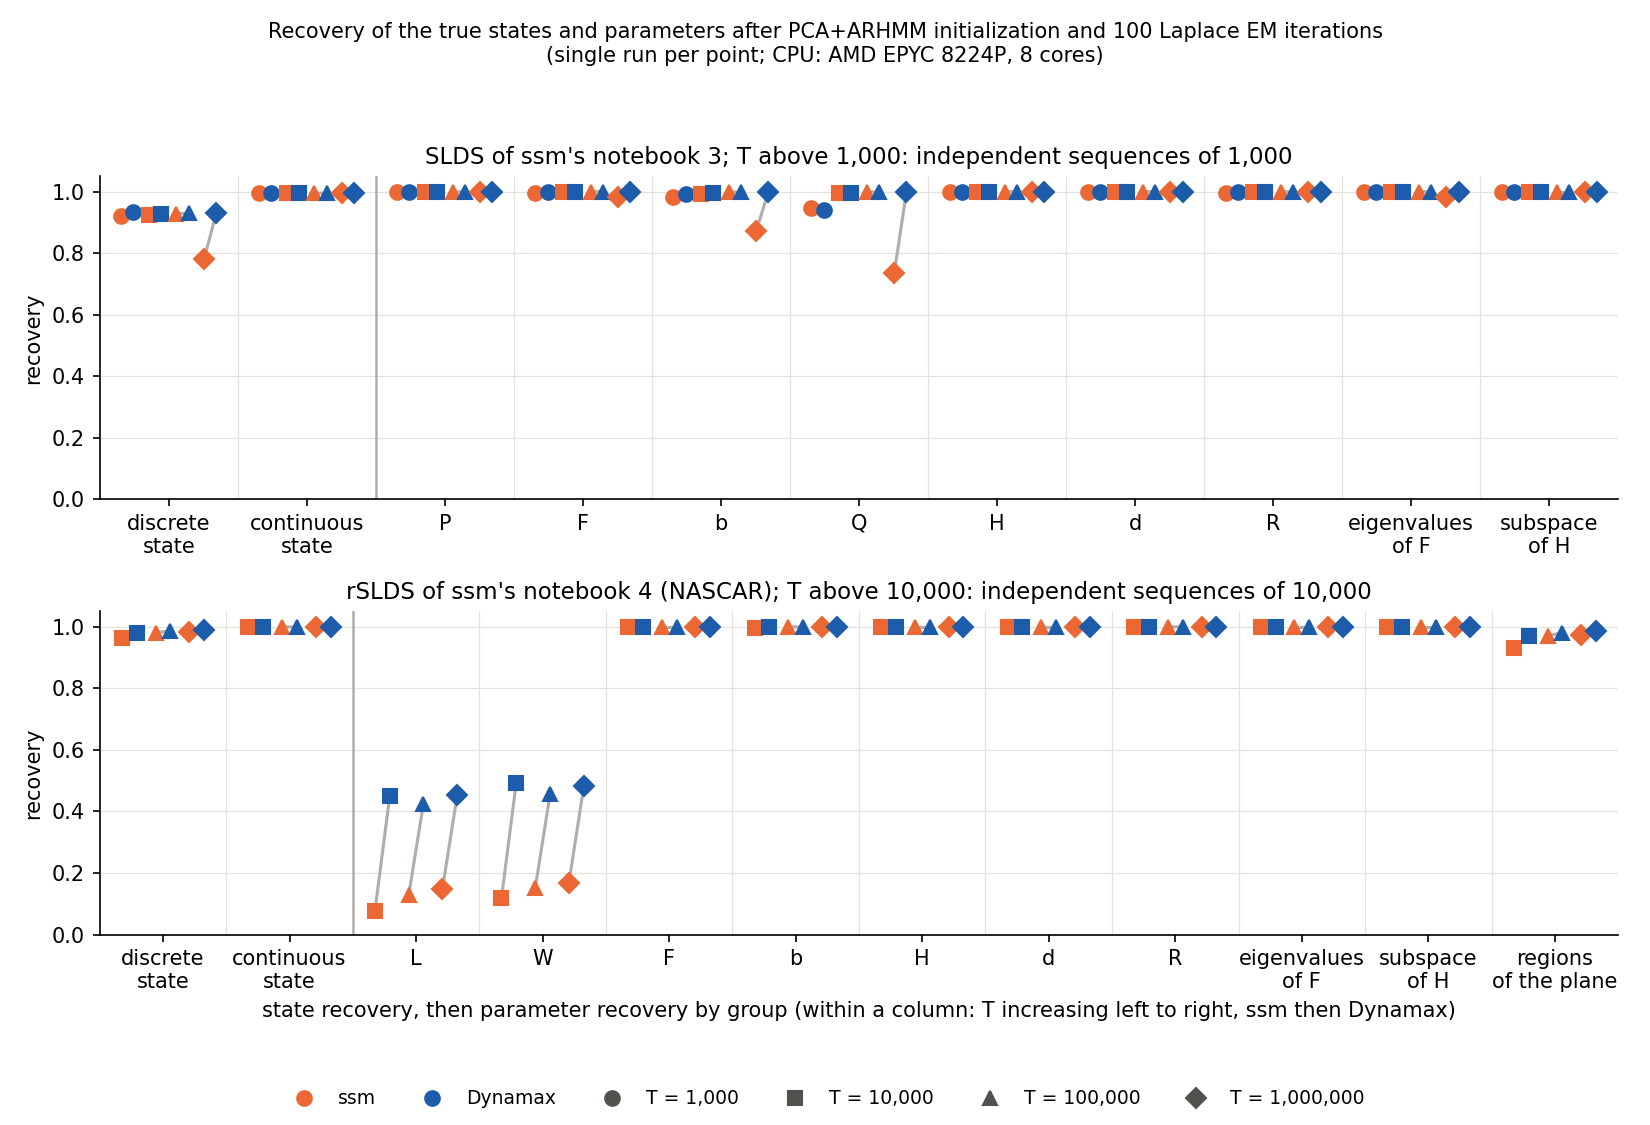
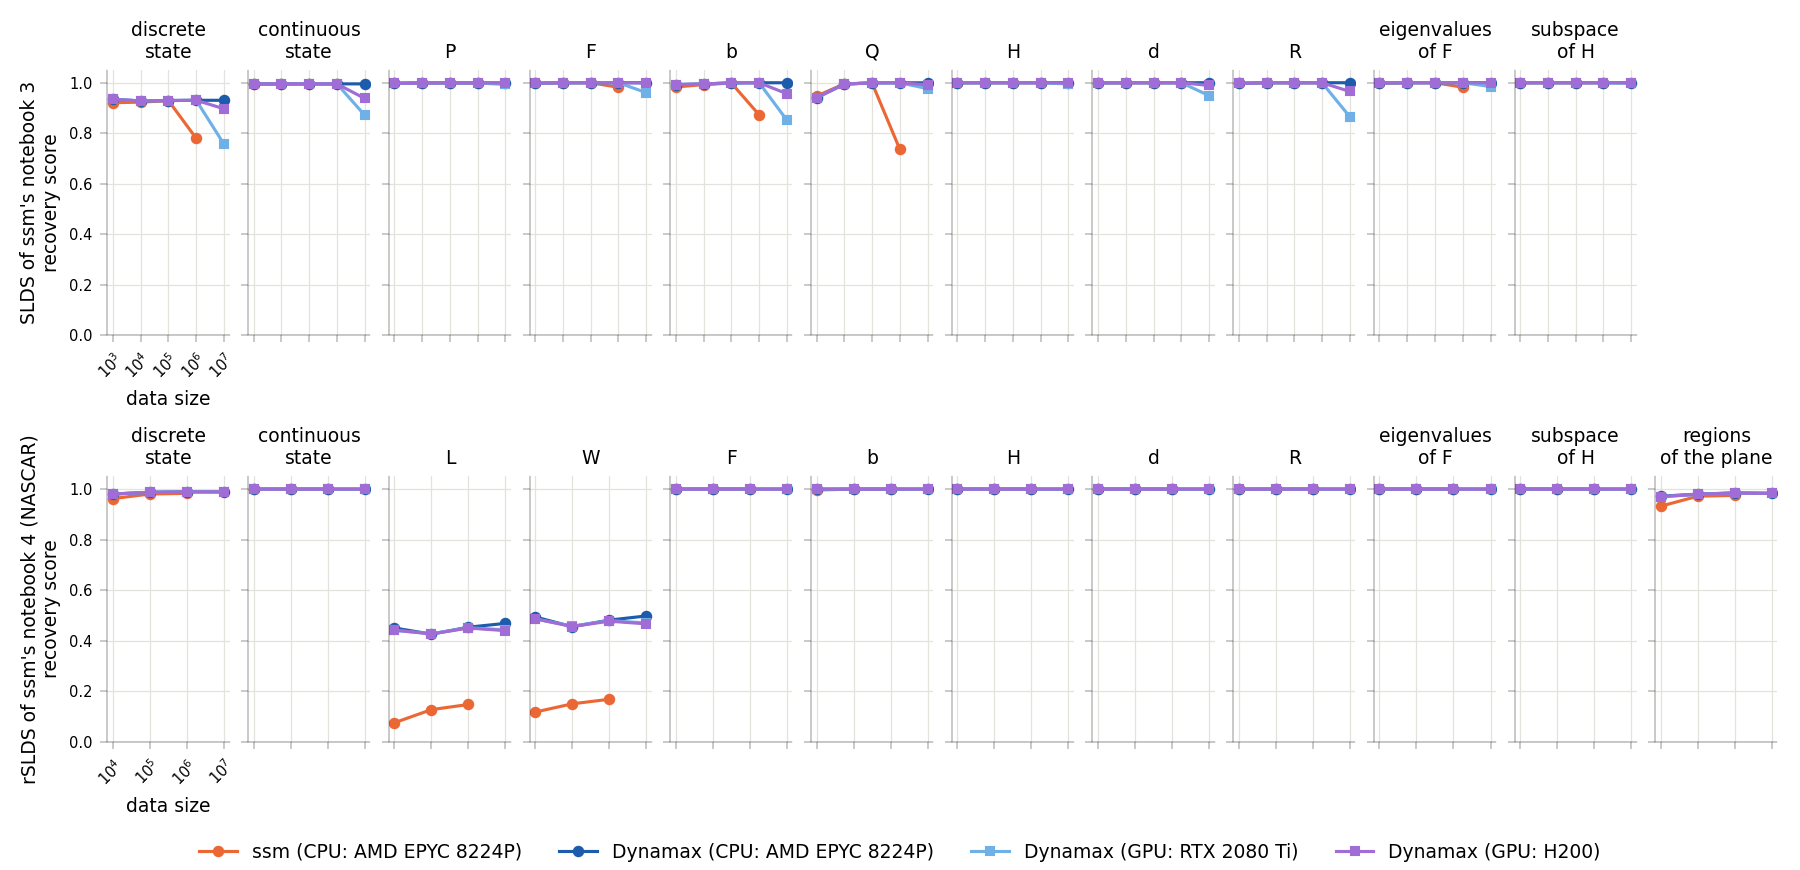
Add a recovery summary figure, and draw recovery in small panels
Problem: recovery_<cpu>.png packs every score at every data size into
one panel per dataset, with a marker shape for each size. It shows
only the CPU fits, cannot be read against data size, and comes out
nearly the same for both CPUs.

Solution: Add recovery_summary_<cpu>.png: the mean of a fit's
recovery scores against data size, with a line per run, GPU runs
included. Redraw recovery_<cpu>.png as that figure in small, with one
panel per score, in the style of the speed figures. Draw both for one
CPU only, since the scores are essentially the same on both, and
remove the other CPU's picture. The README follows.

diff --git a/benchmarks/slds_vs_ssm/plot.py b/benchmarks/slds_vs_ssm/plot.py
@@ -1,4 +1,4 @@
-"""Plot the results as three figures per CPU.
+"""Plot the results as two speed figures per CPU and two recovery figures.
 
 For each CPU in CPUS, reads that CPU's results files, cpu_<cpu>_ssm_<model>.jsonl and
 cpu_<cpu>_dynamax_<model>.jsonl, and each GPU's, gpu_<gpu>_dynamax_<model>.jsonl (the speed figures draw dynamax on
@@ -12,10 +12,13 @@ speed_total_<cpu>.png: total fit time vs timesteps, with a panel per dataset and
 initialization + EM iterations; dynamax = initialization (including its compile) + EM iterations (including their
 compile). Color = series; circles are CPU runs and squares are GPU runs. The labels are ssm's time on that CPU over
 the series' time, at the sizes ssm has, stacked below the points with the smallest ratio on top.
-recovery_<cpu>.png (CPU fits only): recovery as scored by dynamax/slds/ssm_recovery_test.py: discrete state recovery,
-continuous state recovery, then the parameter recovery scores, at the sizes both libraries have. Marker = number of
-timesteps. Within a column each number of timesteps has one (ssm, dynamax) pair, joined by a line. The dynamics noise
-covariance Q is left out of the rSLDS panel.
+The recovery figures are drawn for one CPU only (RECOVERY_CPU): the scores are essentially the same on both.
+recovery_summary_<cpu>.png: the mean of a fit's recovery scores (the ones recovery_<cpu>.png shows) vs timesteps,
+with a panel per dataset and a line per series, drawn as in speed_total_<cpu>.png.
+recovery_<cpu>.png: recovery as scored by dynamax/slds/ssm_recovery_test.py, with a row of panels per dataset and a
+panel per score: discrete state recovery, continuous state recovery, then the parameter recovery scores. Each panel
+is recovery_summary_<cpu>.png's, in small, for that one score. The dynamics noise covariance Q is left out of the
+rSLDS row.
 Usage: python plot.py
 """
 import json
@@ -23,20 +26,19 @@ import os
 import sys
 
 import matplotlib.pyplot as plt
-from matplotlib.lines import Line2D
 
 HERE = os.path.dirname(os.path.abspath(__file__))
 sys.path.insert(0, HERE)
-from make_data import SEQUENCE_LENGTH, SIZES  # noqa: E402
+from make_data import SEQUENCE_LENGTH  # noqa: E402
 
 CPUS = {"epyc_7502": "AMD EPYC 7502", "epyc_8224p": "AMD EPYC 8224P"}     # --name of a run: its label; 8 cores each
+DPI = 150                                                 # of the pictures
+RECOVERY_CPU = "epyc_8224p"                               # the recovery figures are drawn for this CPU only
 GPUS = {"rtx_2080ti": "RTX 2080 Ti", "h200": "H200"}
 GPU_SERIES = [f"Dynamax on {label}" for label in GPUS.values()]
 COLORS = dict(zip(["ssm", "Dynamax"] + GPU_SERIES, ["#eb6834", "#1c5cab", "#6fb1e6", "#a06cd5"]))
 DATASETS = {"slds": "SLDS of ssm's notebook 3", "rslds": "rSLDS of ssm's notebook 4 (NASCAR)"}
 SKIP = {"rslds": {"Q"}}
-MARKERS = dict(zip(sorted({T for sizes in SIZES.values() for T in sizes}), "os^Dv"))   # marker = number of timesteps
-BATCH_NOTE = {d: f"above {n:,}: independent sequences of {n:,}" for d, n in SEQUENCE_LENGTH.items()}
 PART_COLORS = ["#3a3a3a", "#b8860b", "#2a8f6f"]           # the detailed figure's EM, compile, and initialization
 
 
@@ -51,17 +53,22 @@ def select(rows, dataset):
     return {r["num_timesteps"]: r for r in sorted(rows, key=lambda r: r["num_timesteps"]) if r["dataset"] == dataset}
 
 
-def save(fig, name, rect):
-    fig.tight_layout(rect=rect)
-    fig.savefig(os.path.join(HERE, name), dpi=150)
+def save(fig, name, rect, **padding):
+    fig.tight_layout(rect=rect, **padding)
+    fig.savefig(os.path.join(HERE, name), dpi=DPI)
     plt.close(fig)
     print(os.path.join(HERE, name))
 
 
-def log_axes(ax):
-    """The look both speed figures share: log scales, the major grid only, and no top or right border."""
+def marker(series):
+    """The marker of a series where each series is one line: a square for a GPU run, a circle for a CPU run."""
+    return dict(marker="s", ms=7) if series in GPU_SERIES else dict(marker="o", ms=8)
+
+
+def log_axes(ax, yscale="log"):
+    """The look the figures over data size share: a log x axis, the major grid only, and no top or right border."""
     ax.set_xscale("log")
-    ax.set_yscale("log")
+    ax.set_yscale(yscale)
     ax.grid(True, which="major", color="#e4e2dc", lw=0.6)
     ax.set_axisbelow(True)
     ax.spines[["top", "right"]].set_visible(False)
@@ -117,10 +124,9 @@ def total_figure(cpu, names, series_rows):
         totals = {}                                         # series: {number of timesteps: total seconds}
         for series, rows in series_rows.items():
             sel = select(rows, dataset)
-            shape, size = ("s", 7) if series in GPU_SERIES else ("o", 8)                # square = GPU, circle = CPU
             totals[series] = {t: r["init_s"] + r["fit_s"] + r.get("init_compile_s", 0) + r.get("fit_compile_s", 0)
                               for t, r in sel.items()}      # ssm has no compile
-            ax.plot(list(sel), list(totals[series].values()), marker=shape, ms=size, lw=2, color=COLORS[series],
+            ax.plot(list(sel), list(totals[series].values()), **marker(series), lw=2, color=COLORS[series],
                     label=names[series])
         for t, ssm_s in totals.get("ssm", {}).items():      # labels: ssm's time over each series' time, in its color
             points = sorted(((seconds[t], series) for series, seconds in totals.items()
@@ -151,50 +157,58 @@ def total_figure(cpu, names, series_rows):
     save(fig, f"speed_total_{cpu}.png", (0, 0.05, 1, 1))
 
 
-def recovery_figure(cpu, cpu_label, series_rows, num_iters):
-    """recovery_<cpu>.png: the recovery scores of both libraries' fits on this CPU."""
-    fig, axes = plt.subplots(2, 1, figsize=(11, 7.5))
-    libraries, drawn = ("ssm", "Dynamax"), set()
+def recovery_summary_figure(cpu, names, series_rows):
+    """recovery_summary_<cpu>.png: a panel per dataset and a line per series, the mean of its recovery scores."""
+    fig, axes = plt.subplots(1, 2, figsize=(11, 4.6), sharey=True)
     for ax, (dataset, title) in zip(axes, DATASETS.items()):
-        sel = {library: select(series_rows[library], dataset) for library in libraries}
-        sizes = [T for T in sel["ssm"] if T in sel["Dynamax"]]              # the sizes both libraries have
-        if not sizes:                                       # one library has no fit of this model: an empty panel
+        for series, rows in series_rows.items():
+            sel = select(rows, dataset)
+            scores = [[score for group, score in r["recovery"].items() if group not in SKIP.get(dataset, ())]
+                      for r in sel.values()]                # the scores recovery_<cpu>.png shows, per size
+            ax.plot(list(sel), [sum(s) / len(s) for s in scores], **marker(series), lw=2, color=COLORS[series],
+                    label=names[series])
+        log_axes(ax, yscale="linear")
+        ax.set_title(title, fontsize=11)
+        ax.set_xlabel("data size")
+    axes[0].set_ylabel("mean recovery score")
+    axes[0].set_ylim(0, 1.05)                               # as in recovery_<cpu>.png
+    fig.legend(*axes[1].get_legend_handles_labels(), loc="lower center", ncol=len(series_rows), fontsize=9,
+               frameon=False, bbox_to_anchor=(0.5, -0.01))
+    save(fig, f"recovery_summary_{cpu}.png", (0, 0.06, 1, 1))
+
+
+def recovery_figure(cpu, names, series_rows):
+    """recovery_<cpu>.png: recovery_summary_<cpu>.png's panels in small, one per recovery score, a row per dataset."""
+    sel = {dataset: {series: select(rows, dataset) for series, rows in series_rows.items()} for dataset in DATASETS}
+    scores = {}                                             # dataset: the scores to draw, in the results files' order
+    for dataset in DATASETS:
+        rows = [r for of_series in sel[dataset].values() for r in of_series.values()]
+        scores[dataset] = [s for s in rows[0]["recovery"] if s not in SKIP.get(dataset, ())] if rows else []
+    fig, axes = plt.subplots(len(DATASETS), max(map(len, scores.values())), figsize=(12, 5.8), sharex="row",
+                             sharey=True, squeeze=False)
+    for row, (dataset, title) in zip(axes, DATASETS.items()):
+        sizes = sorted({T for of_series in sel[dataset].values() for T in of_series})
+        for ax, score in zip(row, scores[dataset]):
+            for series, of_series in sel[dataset].items():
+                style = marker(series)
+                ax.plot(list(of_series), [r["recovery"][score] for r in of_series.values()], marker=style["marker"],
+                        ms=style["ms"] - 3.5, lw=1.5, color=COLORS[series], label=names[series])
+            log_axes(ax, yscale="linear")
+            ax.spines[["left", "bottom"]].set_linewidth(0.2)                # thin, with so many panels
+            ax.set_xticks(sizes)                            # a tick at every data size, named in the first panel only
+            ax.minorticks_off()
+            ax.tick_params(labelbottom=False, width=0.2)
+            ax.set_title(score.replace(" recovery", "").replace("_", " ").replace(" ", "\n", 1), fontsize=9)
+        for ax in row[len(scores[dataset]):]:               # this dataset has fewer scores than the other
             ax.set_axis_off()
-            continue
-        drawn.update(sizes)
-        groups = [k for k in sel["ssm"][sizes[0]]["recovery"] if k not in SKIP.get(dataset, ())]
-        slot = 0.8 / len(sizes)                             # each group holds one (ssm, dynamax) pair per T
-        for i, T in enumerate(sizes):
-            for g, group in enumerate(groups):
-                center = g + (i - (len(sizes) - 1) / 2) * slot
-                xs = {"ssm": center - 0.22 * slot, "Dynamax": center + 0.22 * slot}
-                ax.plot(list(xs.values()), [sel[library][T]["recovery"][group] for library in xs], color="#b0aea8",
-                        lw=1.5, zorder=1)
-                for library in xs:
-                    ax.plot([xs[library]], [sel[library][T]["recovery"][group]], marker=MARKERS[T], ms=7, ls="none",
-                            color=COLORS[library], zorder=3)
-        ax.set_xticks(range(len(groups)),
-                      [k.replace(" recovery", "").replace("_", " ").replace(" ", "\n", 1) for k in groups])
-        ax.set_xlim(-0.5, len(groups) - 0.5)
-        ax.set_ylim(0, 1.05)
-        ax.set_title(f"{title}; T {BATCH_NOTE[dataset]}", fontsize=11)
-        ax.set_ylabel("recovery")
-        ax.grid(True, axis="y", color="#e4e2dc", lw=0.6)
-        for g in range(1, len(groups)):                     # a heavier line after the two state scores
-            ax.axvline(g - 0.5, color="#b0aea8" if g == 2 else "#e4e2dc", lw=1.2 if g == 2 else 0.6)
-        ax.set_axisbelow(True)
-        ax.spines[["top", "right"]].set_visible(False)
-    axes[1].set_xlabel("state recovery, then parameter recovery by group "
-                       "(within a column: T increasing left to right, ssm then Dynamax)")
-    handles = [Line2D([], [], marker="o", ms=7, ls="none", color=COLORS[library], label=library)
-               for library in libraries]
-    handles += [Line2D([], [], marker=MARKERS[T], ms=7, ls="none", color="#52514e", label=f"T = {T:,}")
-                for T in sorted(drawn)]
-    fig.legend(handles=handles, loc="lower center", ncol=len(handles), fontsize=9, frameon=False,
-               bbox_to_anchor=(0.5, 0.0))
-    fig.suptitle(f"Recovery of the true states and parameters after PCA+ARHMM initialization and {num_iters} Laplace "
-                 f"EM iterations\n(single run per point; CPU: {cpu_label}, 8 cores)", fontsize=10)
-    save(fig, f"recovery_{cpu}.png", (0, 0.07, 1, 0.95))
+        row[0].tick_params(labelbottom=True, labelsize=7)
+        plt.setp(row[0].get_xticklabels(), rotation=45, ha="right", rotation_mode="anchor")
+        row[0].set_xlabel("data size", fontsize=9)
+        row[0].set_ylabel(f"{title}\nrecovery score", fontsize=9)
+    axes[0, 0].set_ylim(0, 1.05)                            # as in recovery_summary_<cpu>.png
+    fig.legend(*axes[-1, 0].get_legend_handles_labels(), loc="lower center", ncol=len(series_rows), fontsize=9,
+               frameon=False, bbox_to_anchor=(0.5, -0.01))
+    save(fig, f"recovery_{cpu}.png", (0, 0.04, 1, 1), w_pad=0.2)   # the panels close together
 
 
 for cpu, cpu_label in CPUS.items():
@@ -209,5 +223,6 @@ for cpu, cpu_label in CPUS.items():
              **{series: f"Dynamax (GPU: {gpu_label})" for series, gpu_label in zip(GPU_SERIES, GPUS.values())}}
     detail_figure(cpu, names, series_rows, *num_iters)
     total_figure(cpu, names, series_rows)
-    if {"ssm", "Dynamax"} <= set(series_rows):
-        recovery_figure(cpu, cpu_label, series_rows, *num_iters)
+    if cpu == RECOVERY_CPU:
+        recovery_summary_figure(cpu, names, series_rows)
+        recovery_figure(cpu, names, series_rows)

diff --git a/benchmarks/slds_vs_ssm/README.md b/benchmarks/slds_vs_ssm/README.md
@@ -14,5 +14,5 @@ python benchmarks/slds_vs_ssm/make_data.py                               # sampl
 python benchmarks/slds_vs_ssm/bench_ssm.py --name epyc_7502              # writes cpu_epyc_7502_ssm_*.jsonl
 python benchmarks/slds_vs_ssm/bench_dynamax.py --name epyc_7502          # writes cpu_epyc_7502_dynamax_*.jsonl
 python benchmarks/slds_vs_ssm/bench_dynamax.py --device gpu --name h200  # on a machine with a GPU; writes gpu_h200_dynamax_*.jsonl
-python benchmarks/slds_vs_ssm/plot.py                                    # for each CPU, writes speed_*.png, speed_total_*.png, and recovery_*.png
+python benchmarks/slds_vs_ssm/plot.py                                    # writes speed_*.png and speed_total_*.png for each CPU, and recovery_*.png for one
 ```
